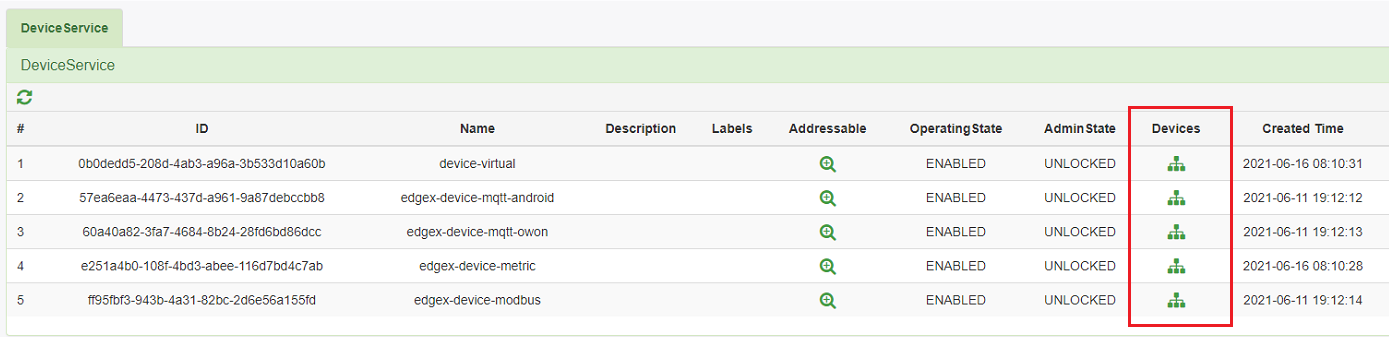
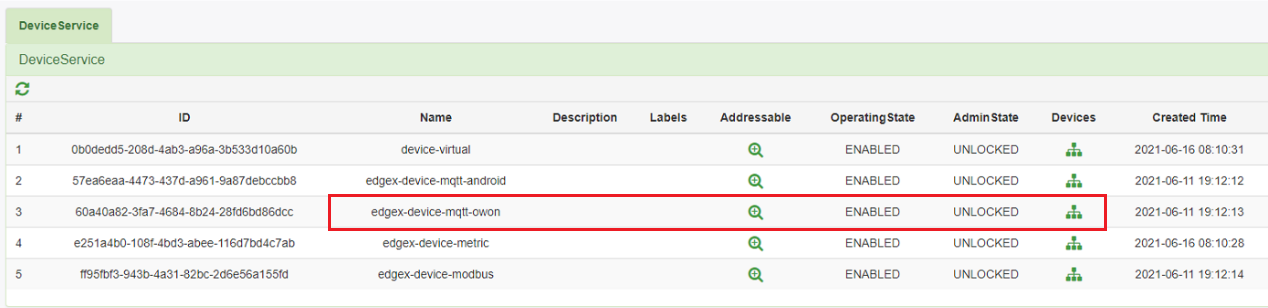
Version 7-26

Changed region(s): [[0.2461, 0.2922, 0.892, 0.9935]]

diff --git a/1. EdgeX Foundry软件部署.md b/1. EdgeX Foundry软件部署.md
@@ -20,6 +20,9 @@
 | RS485 串口服务器 | ZX-S508D (支持 Modbus TCP) |
 | OWON 网关 | SEG-X1 |
 | 智能 ZigBee 灯组 | FNB56-ZCW39GD1.1 |
+| 射频遥控开关 | 型号待补充 |
+| 智能灯光面板 | SLC600-L |
+| 导轨继电器 | 型号待补充 | 
 | 安卓音乐盒子 | audio_2021309_Rk3288 |
 
 ## 2. 前提条件
@@ -34,10 +37,14 @@
     | docker-compose | 1.29.1 或以上 |
 
 - 已获取以下配置文件：<br>
-   \- docker-compose.yml<br>
-   \- owon_mqtt_profile.yaml<br>
-   \- zhonghong_modbus_profile.yaml<br>
-   \- android_mqtt_profile.yaml<br>
+   | 文件名 | 说明 |
+   | --- | --- |
+   | docker-compose.yml | Docker 配置文件 |
+   | owon_lamp_profile.yaml | OWON 网关灯组配置文件 |
+   | owon_smartplug_1_profile | OWON 网关导轨继电器配置文件 |
+   | owon_smartplug_1_profile | OWON 网关智能灯光面板配置文件 |
+   | zhonghong_modbus_profile.yaml | 中弘 Modbus 网关配置文件|
+   | android_mqtt_profile.yaml | 安卓音乐盒子配置文件 |
 遇到问题请联系慧博云通技术支持。
 ## 3. 部署 EdgeX Foundry
 1. 使用 root 用户登录 EdgeX Foundry 服务器。
@@ -87,55 +94,71 @@
 
    <img src="/images/OWON登录Edgex.png" width=500/> <br>
 
-   (2). 修改 owon_mqtt_profile.yaml 配置文件，把设备的 MAC 地址全部替换为当前环境灯的 MAC 地址。
-        <br>例如：switch_08F02004008D1500，需要将 08F02004008D1500替换为实际的 MAC 地址。
-        <br>关于如何获取灯的 MAC 地址，请参考 <a href="https://gitee.com/PubDocumentation/iot-documents/blob/master/2.%20OWON%E6%99%BA%E8%83%BD%E7%BD%91%E5%85%B3%E9%85%8D%E7%BD%AE.md#23-%E8%8E%B7%E5%8F%96%E7%81%AF%E7%9A%84-mac-%E5%9C%B0%E5%9D%80" target="_blank">OWON智能网关配置</a>。<br>
-
-   (3). 点击 Device Profile 下面的 + 号，上传 OWON 网关信息的配置文件。 <br>
-      >**注意**<br>
-      > 如果需要配置多个 OWON 网关，请另外新建一个 owon_mqtt_profile.yaml 配置文件上传（该文件名可更改），将文件中的 MAC 地址修改为该网关所连接灯的 MAC 地址，然后重复以下步骤即可。<br>
+   (2). 点击 Device Profile 下面的 + 号，上传 OWON 网关所连接设备的配置文件，本操作以导轨继电器设备为例。<br>
 
       <img src="/images/OWON%20Profile上传.png" width=330><br>
 
-   (4). 在 DeviceService 区域，点击 Devices 列下面的图标。<br>
+   (3). 在 DeviceService 区域，点击 OWON 网关容器对应的 Devices 列下面的图标。<br>
 
       <img src="/images/软件部署指南/点击Devices下的图标.png" width=450 /><br>
 
-   (5). 点击 Devices 下面的 + 号，添加 OWON 网关设备信息。<br>
-        Schema：tcp<br>
-        Host：EdgeX Foundry 服务器的 IP 地址<br>
-        Port：MQTT 服务的端口号，此处为 1883<br>
-        Clientid：clientid<br>
-        Topic：api/device/{deviceId}/{appclientId}<br>
-        其中 {deviceId}是 OWON 网关的 MAC 地址，{appclientId} 是自定义的标识符。<br>
+   (4). 点击 Devices 下面的 + 号，添加 OWON 网关所连接的设备。<br>
+        Name 和 Description 字段为自定义的设备名称和描述。<br>
+        Labels 字段填写本次要添加设备的类型，取值如下：<br>
+        \- lamp：智能灯<br>
+        \- smartSwitch：智能开关<br>
+        \- smartPlug：导轨继电器<br>
+
+   (5). 在 DeviceAddressable 区域，点击加号图标添加字段，并填写要添加设备的信息。<br>
+
+      Clientid：clientid<br>
+      Host：EdgeX Foundry 服务器的 IP 地址<br>
+      ieee：要添加设备的 MAC 地址（请参考 <a href="https://gitee.com/PubDocumentation/iot-documents/blob/master/2.%20OWON%E6%99%BA%E8%83%BD%E7%BD%91%E5%85%B3%E9%85%8D%E7%BD%AE.md#23-%E8%8E%B7%E5%8F%96%E7%81%AF%E7%9A%84-mac-%E5%9C%B0%E5%9D%80" target="_blank">查询设备的 MAC 地址</a>）<br>
+      Schema：tcp<br>
+      Topic：api/device/{deviceId}/{appclientId}<br>
+      其中 {deviceId}是 OWON 网关的 MAC 地址，{appclientId} 是自定义的标识符。<br>
+      Port：MQTT 服务的端口号，此处为 1883<br>
+
+      在下图的示例中，添加的设备为导轨继电器：<br>
 
       <img src="/images/OWON网关设备信息.png" width=450/><br>
-
-    (6). 重启 edgex-device-mqtt 容器使配置生效：<br>
+      
+   (6). 重启 edgex-device-mqtt-owon 容器使配置生效：<br>
          `docker restart edgex-device-mqtt-owon`
 ## 6. 适配中弘 Modbus 网关
 
 1. 使用浏览器进入 http://{EdgeX Foundry IP 地址}:4000/。
-2. 编辑 zhonghong_modbus_profile.yaml 配置文件，将空调地址全部修改为当前环境的实际地址。<br>
+<!-- 2. 编辑 zhonghong_modbus_profile.yaml 配置文件，将空调地址全部修改为当前环境的实际地址。<br>
    Get 命令的地址需要替换为空调状态寄存器的地址，Set 命令的地址需要替换为控制寄存器的地址。<br>
    例如，在 PowerGet_193，需要将 193 替换成实际的状态寄存器地址；在 TemperatureSet_4130 中，需要将 4130 替换成实际的控制寄存器地址。 
    - 状态寄存器计算方法：(AA × 32 + BB) × 6 + 1
    - 控制寄存器计算方法：(AA × 32 + BB) × 4 + 4001<br>
    其中 AA 和 BB 的值可从中弘空调的 web 管理界面获取，如下图所示。详情请参考中弘官方文档《室外机网关使用手册》。<br>
 
-   ![](/images/附录-空调寄存器地址.png)<br>
-3. 点击 Device Profile 下面的 + 号，上传中弘 Modbus 网关信息的配置文件。<br>
-   >**注意**<br>
-   >如果需要配置多个 OWON 网关，请另外新建一个 owon_mqtt_profile.yaml 配置文件上传（该文件名可更改），将文件中的 MAC 地址修改为该网关所连接灯的 MAC 地址，然后重复以下步骤即可。<br>
+   ![](/images/附录-空调寄存器地址.png)<br> -->
+1. 点击 Device Profile 下面的 + 号，上传中弘 Modbus 网关配置文件。<br>
    
    <img src="/images/中弘%20profile上传.png" width=330/><br>
-4. 点击 Devices 下面的 + 号，添加中弘 Modbus 网关设备的信息。<br>
-   Address：串口服务器的 IP 地址<br>
-   Port：串口服务器的端口号，此处设置为 4008<br>
-   此端口号需要与串口服务器中的配置保持一致，详情请参考 [4. 配置串口服务器](#4-配置串口服务器)中的步骤 3。<br>
-   UnitID：中弘 Modbus 网关管理页面中配置的设备地址，本示例中设置为 1<br>
+2. 点击 Devices 下面的 + 号，添加中弘 Modbus 网关设备的信息。<br>
+   Name 和 Description 字段为自定义的设备名称和描述。<br>
+   Labels 字段填写本次要添加设备的类型，此处设置为 air，表示空调设备。<br>
+3. 在 DeviceAddressable 区域，点击加号图标添加字段，并填写要添加设备的信息。<br>
 
    <img src="/images/中弘设备信息.png" width=450/><br>
+
+   Address：串口服务器的 IP 地址<br>
+   Timeout：读取数据超时时间（单位为秒），此处设置为 10<br>
+   IdleTimeout：TCP 连接超时时间（单位为秒），此处设置为 10<br>
+   Port：串口服务器的端口号，此处设置为 4008<br>
+   此端口号需要与串口服务器中的配置保持一致，详情请参考 [4. 配置串口服务器](#4-配置串口服务器)中的步骤 3。<br>
+   StartAddress：空调 Modbus 起始地址，该地址计算公式如下：(AA × 32 + BB) × 6<br>
+   其中 AA 和 BB 的值可从中弘空调的 web 管理界面获取，如下图所示。详情请参考中弘官方文档《室外机网关使用手册》。<br>
+
+   ![](/images/附录-空调寄存器地址.png)<br>
+
+   UnitID：中弘 Modbus 网关管理页面中配置的设备地址，本示例中设置为 1<br>
+
+   
 
    下图是中弘 Modbus 网关的管理页面，可从该页面获取设备地址，详情请参考中弘官方文档《室外机网关使用手册》。<br>
 
@@ -169,8 +192,6 @@
 12. 上传安卓音乐盒子信息配置文件。<br>
     (1). 使用浏览器进入 http://{EdgeX Foundry IP 地址}:4000/。<br>
     (2). 点击 Device Profile 下面的 + 号，上传安卓音乐盒子的配置文件。<br>
-    >**注意：**<br>
-    > 如果需要配置多个安卓音乐盒子，请另外新建多个 docker-compose.yml 配置文件上传（文件名可更改），修改name字段为对应的设备名称，然后重复以下步骤即可。
 
        <img src="/images/软件部署指南/安卓-上传profile.png" width=300/><br>
     (3). 点击 Devices 下面的 + 号，添加安卓音乐盒子信息。<br>
